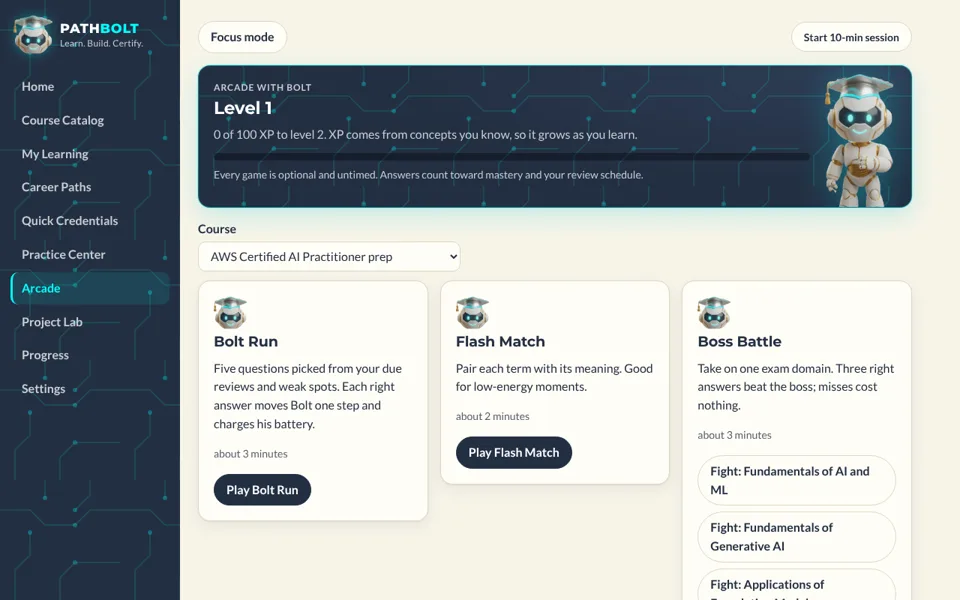
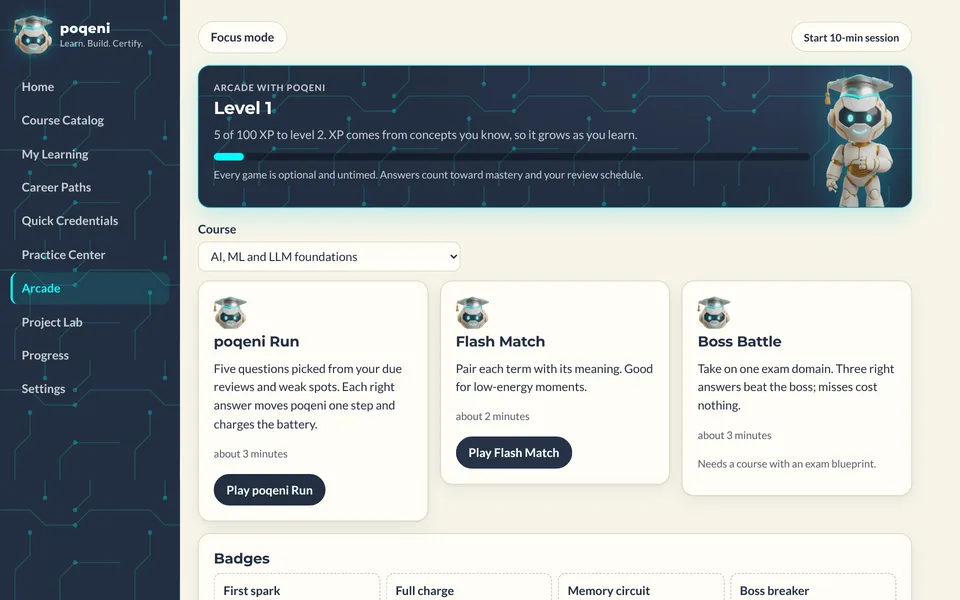
Rename the app and its mascot to poqeni
The app is now poqeni (always lowercase), and so is the mascot formerly called Bolt. User-visible names, the page title, backup file name, package name, docs and README screenshots are updated, and the bolt-* images are now poqeni-*.

The storage key, backup format id and catalog ids are unchanged, so saved progress and older backups still load. Name clearance (domain and trademark) has not been done.

Claude-Session: https://claude.ai/code/session_011m6iGppLHjeqQsUN4WZFmX

diff --git a/src/ui/pages/Arcade.tsx b/src/ui/pages/Arcade.tsx
@@ -11,7 +11,7 @@ import { href } from '../router';
 import { allCourses } from './Practice';
 
 const GAMES: { kind: GameKind; title: string; blurb: string; minutes: string }[] = [
-  { kind: 'run', title: 'Bolt Run', blurb: 'Five questions picked from your due reviews and weak spots. Each right answer moves Bolt one step and charges his battery.', minutes: 'about 3 minutes' },
+  { kind: 'run', title: 'poqeni Run', blurb: 'Five questions picked from your due reviews and weak spots. Each right answer moves poqeni one step and charges the battery.', minutes: 'about 3 minutes' },
   { kind: 'match', title: 'Flash Match', blurb: 'Pair each term with its meaning. Good for low-energy moments.', minutes: 'about 2 minutes' },
   { kind: 'boss', title: 'Boss Battle', blurb: 'Take on one exam domain. Three right answers beat the boss; misses cost nothing.', minutes: 'about 3 minutes' },
 ];
@@ -35,7 +35,7 @@ export function ArcadePage() {
       <section className="card hero" aria-labelledby="arc-h">
         <div className="hero-body">
           <div>
-            <p className="eyebrow">Arcade with Bolt</p>
+            <p className="eyebrow">Arcade with poqeni</p>
             <h2 id="arc-h" style={{ fontSize: '1.45rem' }}>Level {lvl.level}</h2>
             <p className="muted">{lvl.into} of {lvl.span} XP to level {lvl.level + 1}. XP comes from concepts you know, so it grows as you learn.</p>
             <ProgressBar value={lvl.into / lvl.span} label={`Level ${lvl.level} progress`} />
@@ -136,7 +136,7 @@ export function PlayPage({ kind, courseId, domainId }: { kind?: string; courseId
   return <Empty>Unknown game. <a href={href('arcade')}>Back to Arcade</a></Empty>;
 }
 
-// ---------- Bolt Run ----------
+// ---------- poqeni Run ----------
 
 function RunGame({ course, again }: { course: StudyCourse; again: () => void }) {
   const { state } = useStore();
@@ -161,8 +161,8 @@ function RunGame({ course, again }: { course: StudyCourse; again: () => void }) 
   }
   return (
     <article>
-      <p className="eyebrow">Bolt Run · {course.title}</p>
-      <ol className="run-track" aria-label={`Bolt has moved ${steps} of ${qs.length} steps`}>
+      <p className="eyebrow">poqeni Run · {course.title}</p>
+      <ol className="run-track" aria-label={`poqeni has moved ${steps} of ${qs.length} steps`}>
         {qs.map((_, i) => (
           <li key={i} className={i < steps ? 'done' : ''}>{i === steps ? <Mascot size={36} /> : <span aria-hidden="true">{i < steps ? '⚡' : ''}</span>}</li>
         ))}

diff --git a/src/ui/styles.css b/src/ui/styles.css
@@ -1,5 +1,5 @@
 /*
- * PathBolt brand board (originally drawn up as Vector Academy): Deep Navy #232F42, Electric Cyan #00FFFF, Brushed Gold #D4A74F,
+ * poqeni brand board (originally drawn up as Vector Academy): Deep Navy #232F42, Electric Cyan #00FFFF, Brushed Gold #D4A74F,
  * Metallic Silver #B4B7BD, Warm Cream #F7F4E8. Light panels are warm cream; dark panels are navy
  * with a faint cyan circuit pattern. Cyan only sits on navy (or as a glow); on cream, links use a
  * deep teal for contrast. Gold marks achievements and the single most important action.
@@ -125,9 +125,8 @@ pre { background: var(--surface-2); padding: 12px; border-radius: var(--radius-s
 .shell { display: grid; grid-template-columns: 240px minmax(0, 1fr); min-height: 100vh; }
 .shell.focus { grid-template-columns: minmax(0, 1fr); }
 .nav { background: var(--circuit) 0 0 / 160px repeat, var(--navy); color: var(--on-navy); padding: 20px 14px; position: sticky; top: 0; height: 100vh; overflow-y: auto; }
-.nav .brand { display: flex; align-items: center; gap: 10px; margin: 0 4px 22px; font-family: var(--font-head); font-weight: 800; font-size: 1.1rem; line-height: 1.1; letter-spacing: 0.04em; text-transform: uppercase; color: var(--on-navy); }
+.nav .brand { display: flex; align-items: center; gap: 10px; margin: 0 4px 22px; font-family: var(--font-head); font-weight: 800; font-size: 1.1rem; line-height: 1.1; letter-spacing: 0.02em; color: var(--on-navy); }
 .nav .brand .mascot { width: 52px; height: 52px; flex: none; filter: drop-shadow(0 0 8px rgba(0, 255, 255, 0.35)); }
-.nav .brand b { color: var(--cyan); font-weight: 800; }
 .nav .brand small { display: block; margin-top: 4px; font-family: var(--font-body); font-weight: 400; font-size: 0.75rem; color: var(--on-navy-muted); letter-spacing: 0.02em; text-transform: none; }
 .nav :focus-visible { outline-color: var(--gold); }
 .nav ul { list-style: none; margin: 0; padding: 0; }

diff --git a/src/engine/games.ts b/src/engine/games.ts
@@ -11,7 +11,7 @@ import { seededShuffle } from './random';
 
 const dueAt = (state: Pick<AppState, 'reviews'>, courseId: string, itemId: string) => state.reviews[`${courseId}:${itemId}`]?.due;
 
-/** Bolt Run: due reviews first (most overdue first), then weak concepts, then fresh questions. */
+/** poqeni Run: due reviews first (most overdue first), then weak concepts, then fresh questions. */
 export function pickRun(course: StudyCourse, state: Pick<AppState, 'reviews' | 'attempts'>, now: Date, seed: number, n = 5): Question[] {
   const picked: Question[] = [];
   const add = (q: Question | undefined) => {
@@ -100,7 +100,7 @@ export function badges(state: Pick<AppState, 'attempts' | 'games' | 'exams'>, co
   const passed = state.exams.some((e) => e.finishedAt && typeof e.score === 'number' && e.score >= 0.7);
   return [
     { id: 'first-spark', label: 'First spark', how: 'Finish any game.', earned: state.games.length > 0 },
-    { id: 'full-charge', label: 'Full charge', how: 'Answer every question in a Bolt Run correctly.', earned: state.games.some((g) => g.kind === 'run' && g.correct === g.total && g.total > 0) },
+    { id: 'full-charge', label: 'Full charge', how: 'Answer every question in a poqeni Run correctly.', earned: state.games.some((g) => g.kind === 'run' && g.correct === g.total && g.total > 0) },
     { id: 'memory-circuit', label: 'Memory circuit', how: 'Clear a Flash Match board.', earned: won('match') },
     { id: 'boss-breaker', label: 'Boss breaker', how: 'Beat a domain boss.', earned: won('boss') },
     { id: 'concept-collector', label: 'Concept collector', how: 'Master 5 concepts.', earned: mastered >= 5 },

diff --git a/src/ui/pages/Settings.tsx b/src/ui/pages/Settings.tsx
@@ -39,7 +39,7 @@ export function SettingsPage() {
     const blob = new Blob([exportState(state, new Date())], { type: 'application/json' });
     const a = document.createElement('a');
     a.href = URL.createObjectURL(blob);
-    a.download = `pathbolt-backup-${new Date().toISOString().slice(0, 10)}.json`;
+    a.download = `poqeni-backup-${new Date().toISOString().slice(0, 10)}.json`;
     a.click();
     URL.revokeObjectURL(a.href);
     setMsg({ tone: 'ok', text: 'Backup downloaded.' });
@@ -114,7 +114,7 @@ export function SettingsPage() {
         </div>
         <label className="choice"><input type="checkbox" checked={p.breakPrompts} onChange={(e) => set({ breakPrompts: e.target.checked })} /> <span>Offer a break when a timed session ends (never forced)</span></label>
         <label className="choice"><input type="checkbox" checked={p.reminders} onChange={(e) => set({ reminders: e.target.checked })} /> <span>Show an in-app reminder when reviews are due</span></label>
-        <label className="choice"><input type="checkbox" checked={p.games} onChange={(e) => set({ games: e.target.checked })} /> <span>Show the Arcade (optional games with Bolt that count toward mastery and reviews)</span></label>
+        <label className="choice"><input type="checkbox" checked={p.games} onChange={(e) => set({ games: e.target.checked })} /> <span>Show the Arcade (optional games with poqeni that count toward mastery and reviews)</span></label>
         <div className="field">
           <label htmlFor="s-theme">Theme</label>
           <select id="s-theme" value={p.theme} onChange={(e) => set({ theme: e.target.value as Profile['theme'] })}>

diff --git a/e2e/journey.spec.ts b/e2e/journey.spec.ts
@@ -123,7 +123,7 @@ test('export backup downloads JSON', async ({ page }) => {
   await page.goto('/#/settings');
   const download = page.waitForEvent('download');
   await page.getByRole('button', { name: 'Export backup (JSON)' }).click();
-  expect((await download).suggestedFilename()).toMatch(/^pathbolt-backup-.*\.json$/);
+  expect((await download).suggestedFilename()).toMatch(/^poqeni-backup-.*\.json$/);
 });
 
 test('navigation works on every section and pages have no serious accessibility violations', async ({ page }) => {
@@ -189,13 +189,13 @@ test('dark theme keeps pages accessible', async ({ page }) => {
   }
 });
 
-test('arcade games with Bolt record answers and results', async ({ page }) => {
+test('arcade games with poqeni record answers and results', async ({ page }) => {
   await skipOnboarding(page);
   await openSection(page, 'Arcade');
   await page.getByLabel('Course').selectOption('study-aws-aif');
 
-  // Bolt Run: answer five questions whichever way, then see results.
-  await page.getByRole('link', { name: 'Play Bolt Run' }).click();
+  // poqeni Run: answer five questions whichever way, then see results.
+  await page.getByRole('link', { name: 'Play poqeni Run' }).click();
   for (let i = 0; i < 5; i++) {
     await expect(page.getByText(`Question ${i + 1} of 5`)).toBeVisible();
     // Answer any question format; correctness does not matter here.

diff --git a/src/ui/App.tsx b/src/ui/App.tsx
@@ -45,7 +45,7 @@ export function App() {
 
   useEffect(() => {
     setMenuOpen(false);
-    document.title = `${NAV.find(([k]) => k === section)?.[1] ?? 'Study'} · PathBolt`;
+    document.title = `${NAV.find(([k]) => k === section)?.[1] ?? 'Study'} · poqeni`;
     mainRef.current?.focus({ preventScroll: true });
   }, [routeKey, section]);
 
@@ -88,7 +88,7 @@ export function App() {
       <div className={`shell ${focus ? 'focus' : ''}`}>
         {!focus && (
           <nav className={`nav ${menuOpen ? 'open' : ''}`} aria-label="Main">
-            <div className="brand"><Mascot size={52} /><span>Path<b>Bolt</b><small>Learn. Build. Certify.</small></span></div>
+            <div className="brand"><Mascot size={52} /><span>poqeni<small>Learn. Build. Certify.</small></span></div>
             <button type="button" className="menu-btn" aria-expanded={menuOpen} aria-controls="nav-list" onClick={() => setMenuOpen(!menuOpen)}>
               {menuOpen ? 'Close menu' : 'Menu'}
             </button>

diff --git a/src/ui/components/Mascot.tsx b/src/ui/components/Mascot.tsx
@@ -1,8 +1,8 @@
-import fullUrl from '../assets/bolt-full.webp';
-import headUrl from '../assets/bolt-head.webp';
+import fullUrl from '../assets/poqeni-full.webp';
+import headUrl from '../assets/poqeni-head.webp';
 
 /**
- * Bolt, the PathBolt mascot. "head" is the logo mark; "full" is the standing figure.
+ * poqeni, the mascot. "head" is the logo mark; "full" is the standing figure.
  * Decorative wherever it sits next to the product name, so it is hidden from assistive tech.
  */
 export function Mascot({ variant = 'head', size = 40, className = 'mascot' }: { variant?: 'head' | 'full'; size?: number; className?: string }) {

diff --git a/tests/games.test.ts b/tests/games.test.ts
@@ -7,7 +7,7 @@ const course = builtInCourses.find((c) => c.id === 'study-aws-aif')!;
 const NOW = new Date('2026-10-10T12:00:00Z');
 
 describe('games', () => {
-  it('puts due reviews first in a Bolt Run and never repeats a question', () => {
+  it('puts due reviews first in a poqeni Run and never repeats a question', () => {
     let s = initialState();
     const missed = course.questions[7]!;
     s = reducer(s, { type: 'recordAnswer', attempt: { itemId: missed.id, courseId: course.id, conceptIds: missed.conceptIds, correct: false, at: '2026-10-09T00:00:00Z', context: 'lesson' } });

diff --git a/index.html b/index.html
@@ -8,8 +8,8 @@
     <link rel="preconnect" href="https://fonts.googleapis.com" />
     <link rel="preconnect" href="https://fonts.gstatic.com" crossorigin />
     <link rel="stylesheet" href="https://fonts.googleapis.com/css2?family=Lato:wght@400;700&family=Montserrat:wght@700;800&display=swap" />
-    <link rel="icon" type="image/png" href="/src/ui/assets/bolt-icon.png" />
-    <title>PathBolt</title>
+    <link rel="icon" type="image/png" href="/src/ui/assets/poqeni-icon.png" />
+    <title>poqeni</title>
   </head>
   <body>
     <div id="root"></div>

diff --git a/src/ui/pages/Progress.tsx b/src/ui/pages/Progress.tsx
@@ -5,7 +5,7 @@ import { Empty, ProgressBar, StatusPill } from '../components/bits';
 import { useStatuses } from '../hooks';
 import { href } from '../router';
 
-const GAME_NAME = { run: 'Bolt Run', match: 'Flash Match', boss: 'Boss Battle' } as const;
+const GAME_NAME = { run: 'poqeni Run', match: 'Flash Match', boss: 'Boss Battle' } as const;
 
 const LEVEL: Record<MasteryLevel, string> = { none: 'Not started', learning: 'Learning', familiar: 'Familiar', mastered: 'Mastered' };
 const TREND = { up: '↑ improving', down: '↓ slipping', flat: '' };

diff --git a/src/ui/pages/Home.tsx b/src/ui/pages/Home.tsx
@@ -129,7 +129,7 @@ export function HomePage() {
         {state.profile.games && (
           <section className="card game-card" aria-labelledby="arc-home-h">
             <Mascot size={44} />
-            <h2 id="arc-home-h">Play with Bolt</h2>
+            <h2 id="arc-home-h">Play with poqeni</h2>
             <p>Short, untimed games that count toward mastery and reviews. Optional.</p>
             <a className="btn" href={href('arcade')}>Open the Arcade</a>
           </section>

diff --git a/src/store/persistence.ts b/src/store/persistence.ts
@@ -94,7 +94,7 @@ export function importState(text: string): { ok: true; state: AppState } | { ok:
     return { ok: false, error: 'The file is not valid JSON.' };
   }
   if (typeof parsed !== 'object' || parsed === null || (parsed as Raw).app !== EXPORT_APP) {
-    return { ok: false, error: 'This is not a PathBolt backup file.' };
+    return { ok: false, error: 'This is not a poqeni backup file.' };
   }
   try {
     const state = migrate((parsed as Raw).state as Raw);
